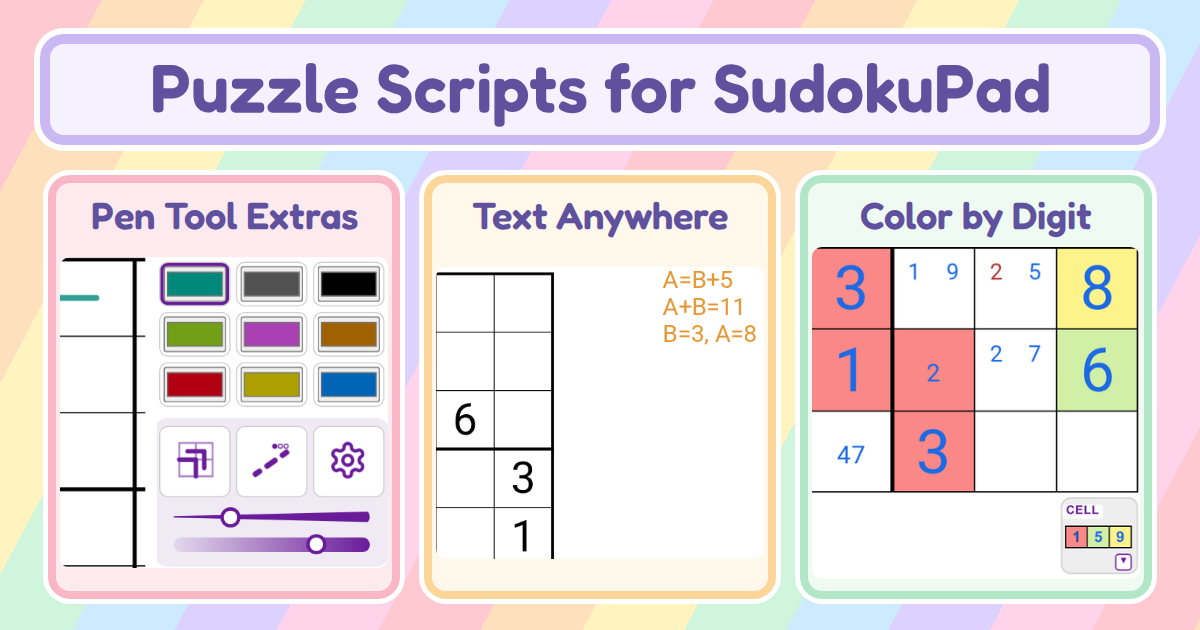
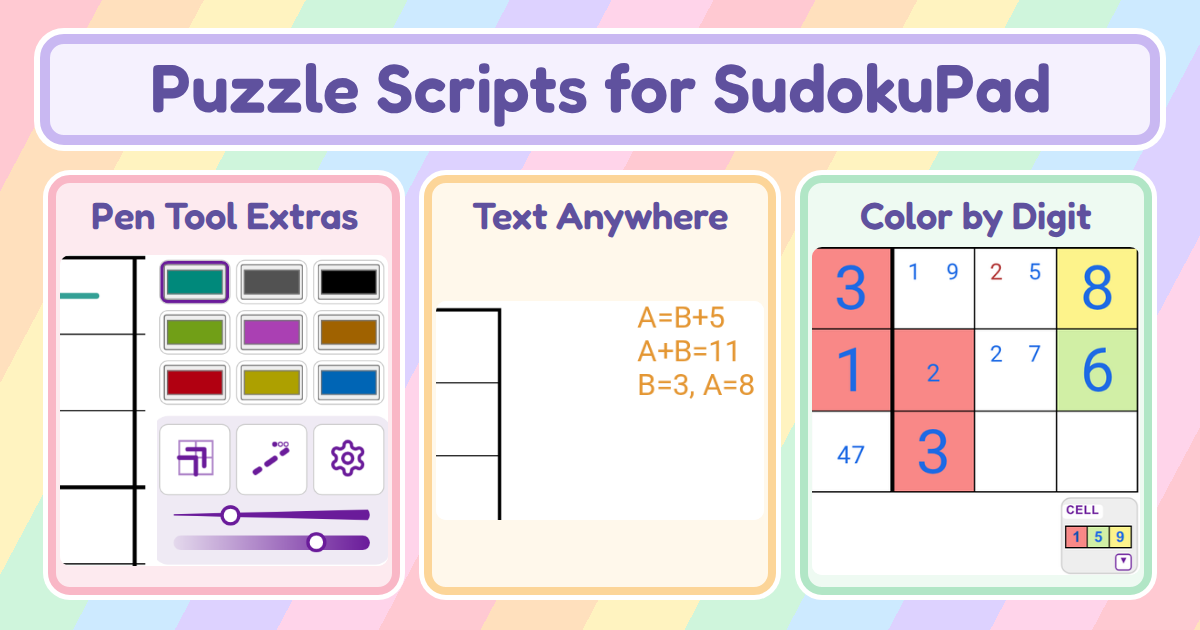
Preview card: review fixes (tighter Text Anywhere crop, colors read from style.css, crop checked against the slide, card tied to its script in a test)
Closes #1151

diff --git a/test/site.test.js b/test/site.test.js
@@ -497,6 +497,12 @@ const pictureSize = (file) => {
 // The homepage's picture is the card of the three biggest scripts (#1151); every details page shows its own slide.
 const HOME_CARD = 'docs/research/site/site-preview-card.png'
 
+test('the homepage preview card has the screenshot script beside it, and the script names it', () => {
+  const script = path.join(ROOT, HOME_CARD.replace(/\.png$/, '-screenshot.mjs'))
+  assert.ok(fs.existsSync(script), `${HOME_CARD} has no screenshot script`)
+  assert.ok(fs.readFileSync(script, 'utf8').includes(path.basename(HOME_CARD)), `${script} does not name ${HOME_CARD}`)
+})
+
 test('every page asks for a large link preview: card, site name, picture size and alt, accent color', () => {
   const slides = Object.values(SOURCE).flatMap(show => show.slides.map(slide => ({ file: show.dir + slide.picture, alt: slide.alt })))
   const siteName = read(HOME).match(/<title>([^<]*)<\/title>/)[1]
@@ -517,7 +523,7 @@ test('every page asks for a large link preview: card, site name, picture size an
     }
     if (name === HOME) {
       assert.equal(file, HOME_CARD, `${where}: og:image is not the preview card`)
-      assert.ok(meta('og:image:alt').length > 0, `${where}: og:image:alt is empty`)
+      assert.ok((meta('og:image:alt') || '').trim().length > 0, `${where}: og:image:alt is empty`)
       continue
     }
     const slide = slides.find(s => s.file === file)

diff --git a/site/index.html b/site/index.html
@@ -8,7 +8,7 @@
 <meta property="og:type" content="website">
 <meta property="og:title" content="Puzzle Scripts">
 <meta property="og:description" content="Small userscripts for SudokuPad and for other puzzle sites: pen colors and marks, typed notes on the board, colors by digit, a dark page and more.">
-<meta property="og:image" content="https://raw.githubusercontent.com/chinstrap45/sudokupad-scripts/main/docs/research/site/site-preview-card.png?v=eaf5c10">
+<meta property="og:image" content="https://raw.githubusercontent.com/chinstrap45/sudokupad-scripts/main/docs/research/site/site-preview-card.png?v=f6a1dc6">
 <meta property="og:image:width" content="1200">
 <meta property="og:image:height" content="630">
 <meta property="og:image:alt" content="A card titled Puzzle Scripts for SudokuPad with three panels side by side: Pen Tool Extras, the pen panel with its nine color buttons; Text Anywhere, a typed note beside the board; and Color by Digit, board cells colored by digit with its Cell panel">

diff --git a/docs/research/README.md b/docs/research/README.md
@@ -168,8 +168,9 @@ Includes No Tab Letters, once its own script.
 
 ## The site
 
-- `docs/research/site/site-preview-card-screenshot.mjs` — The homepage's link-preview card (2026-11-23, #1151). Takes `docs/research/site/site-preview-card.png`
-  (1200×630): the title and the first slides of Pen Tool Extras, Text Anywhere and Color by Digit, cropped tight; also a 400 px copy to check it.
+- `docs/research/site/site-preview-card-screenshot.mjs` — The homepage's link-preview card (2026-11-23, #1151). Takes
+  `docs/research/site/site-preview-card.png` (1200×630): the title and the first slides of Pen Tool Extras, Text Anywhere
+  and Color by Digit, cropped tight; also a 400 px copy to check it.
 - `docs/research/site/chinstrap-theme/README.md` — The ChinStrap theme mockup (2026-11-10). The site restyled in the look of
   Chris's stream, as approved in round 14 of the mockup loop; `theme.css` is the spec the build folded into `site/style.css`.
 
